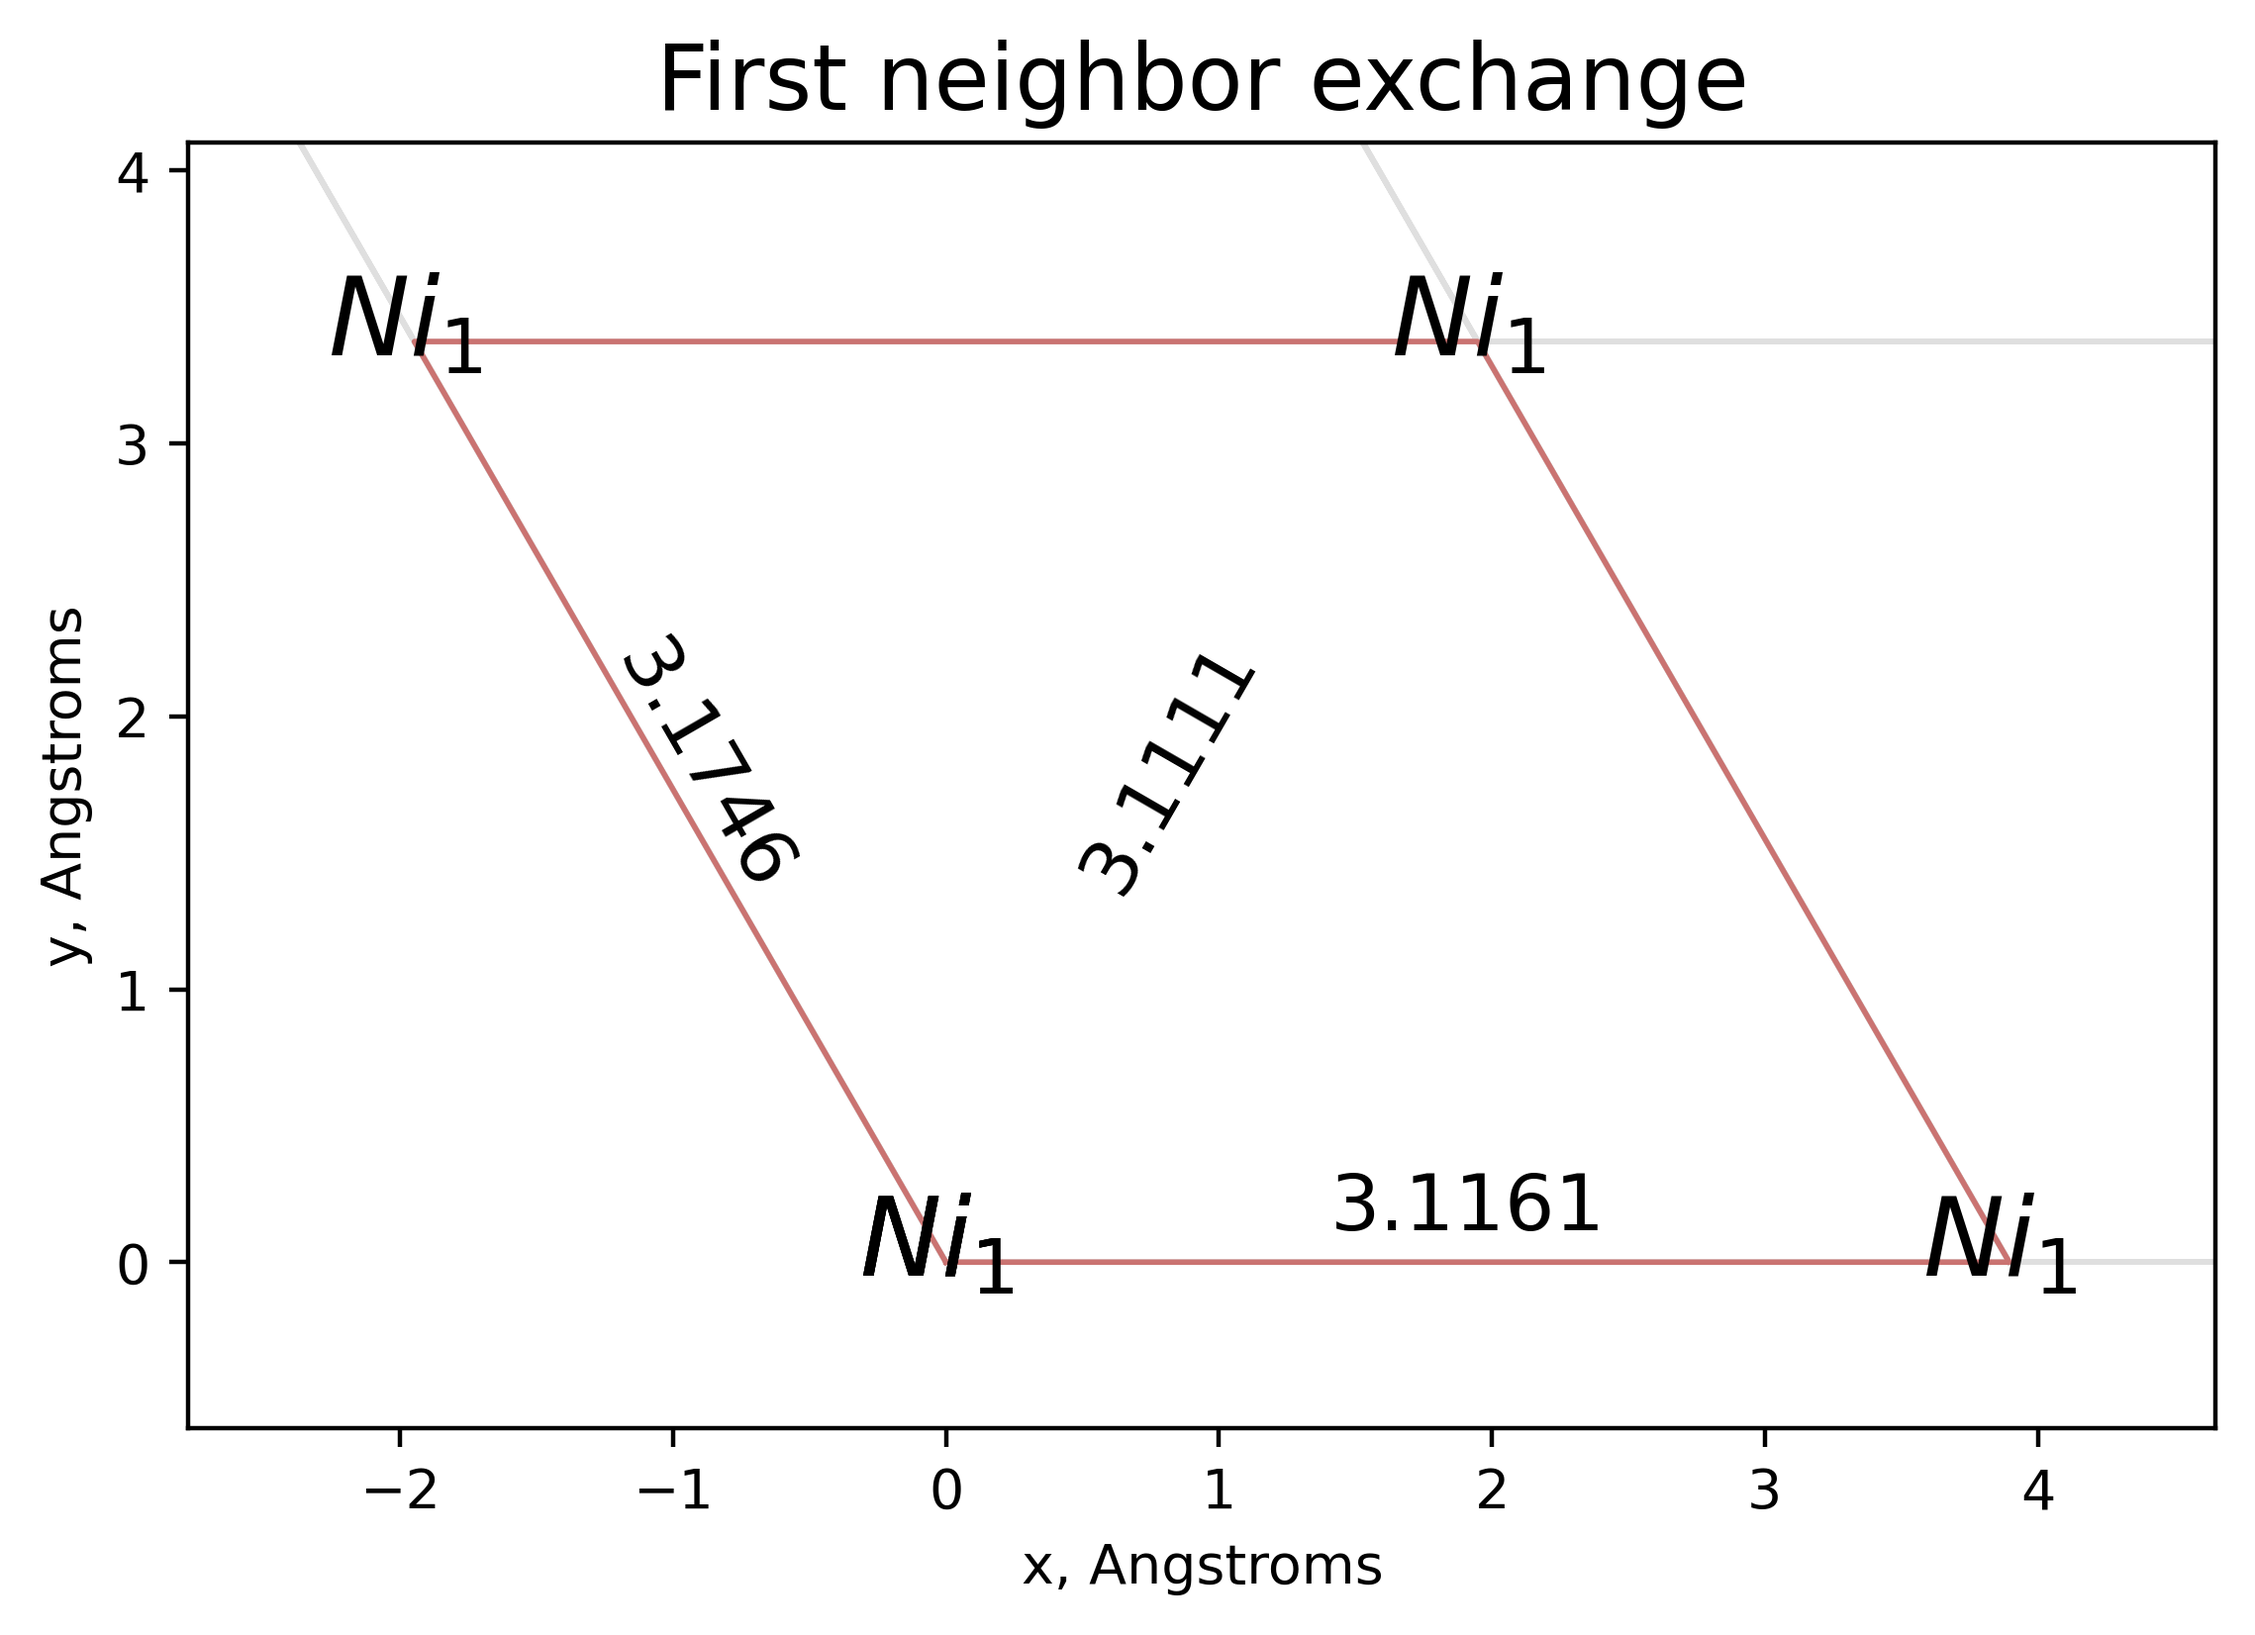
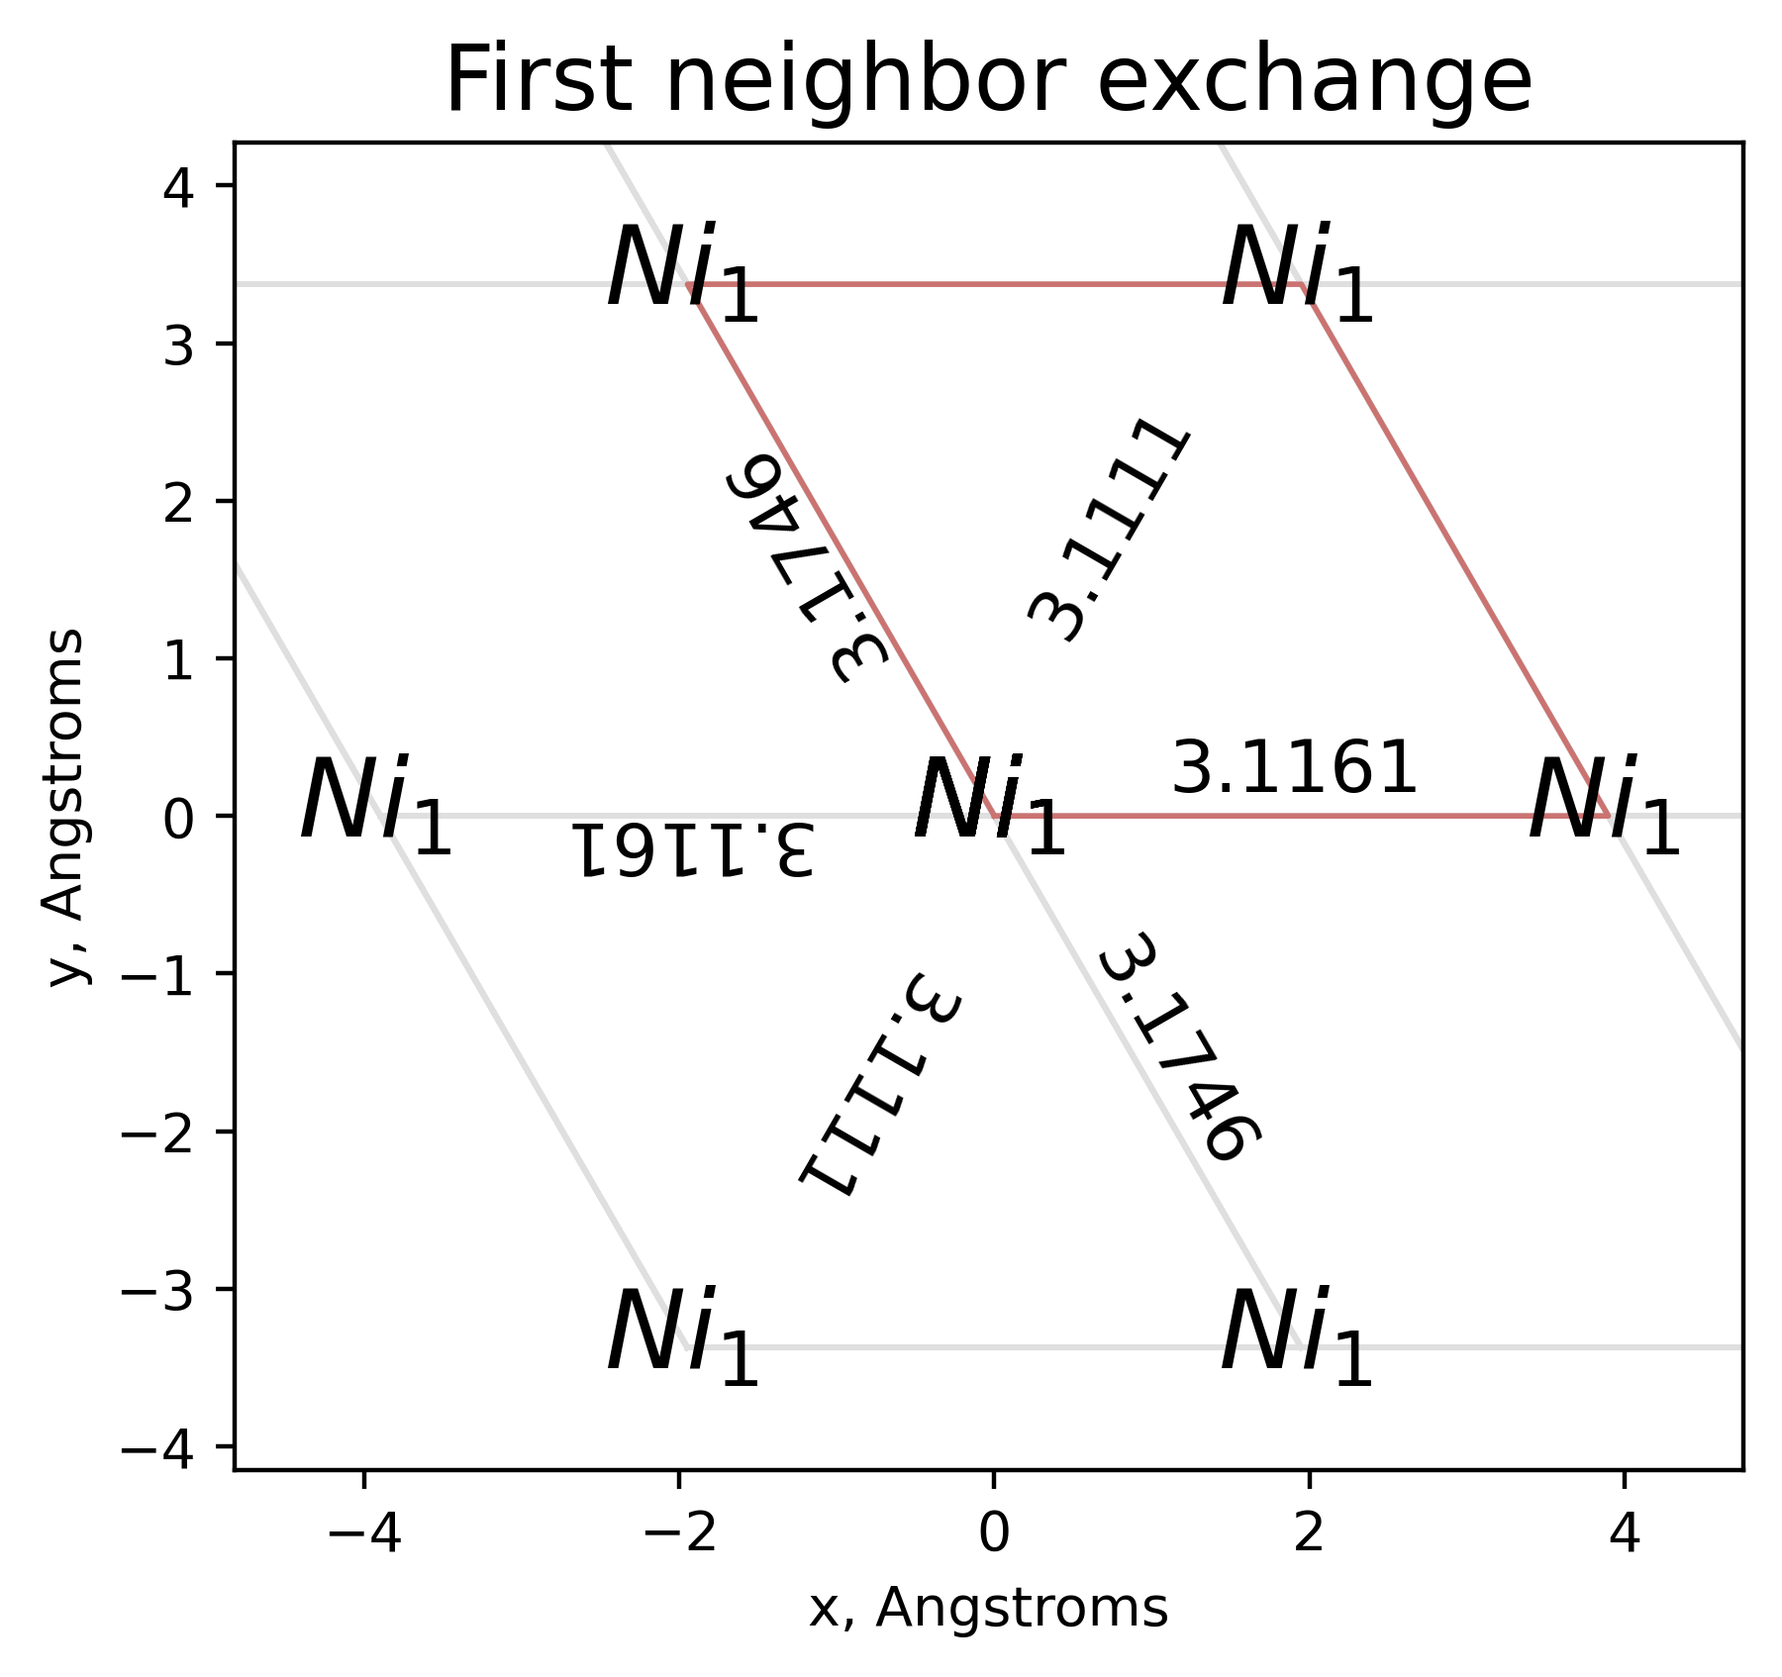
Update tb2j-plotter and docs

diff --git a/scripts/tb2j-plotter.py b/scripts/tb2j-plotter.py
@@ -22,15 +22,10 @@ def plot_2d(filename, out_dir='.',
             max_distance=None,
             template=None,
             R_vector=None,
-            double_bonds=False,
             scale_atoms=1,
             scale_data=1,
-            title=None):
-
-    mode_name = "2d"
-    messages = {'iso': "isotropic exchange",
-                "distance": "distances",
-                "dmi": "dmi"}
+            title=None,
+            force_symmetry=False):
 
     model = read_exchange_model(filename)
     if template is not None:
@@ -39,12 +34,11 @@ def plot_2d(filename, out_dir='.',
                  max_distance=max_distance,
                  R_vector=R_vector,
                  template=template)
+    if force_symmetry:
+        model.force_symmetry(template=template)
 
     dummy = True
     ha = 'center'
-    if not double_bonds:
-        model.remove_double_bonds()
-        dummy = False
     x_min, y_min, z_min, x_max, y_max, z_max = model.space_dimensions
     X = max(abs(x_min), abs(x_max))
     Y = max(abs(y_min), abs(y_max))
@@ -62,43 +56,42 @@ def plot_2d(filename, out_dir='.',
     ax.set_xlabel('x, Angstroms')
     ax.set_ylabel('y, Angstroms')
 
-    for atom1 in model.bonds:
-        for atom2 in model.bonds[atom1]:
-            for R in model.bonds[atom1][atom2]:
-                bond = model.bonds[atom1][atom2][R]
-                x1, y1, z1 = model.get_atom_coordinates(atom1)
-                x2, y2, z2 = model.get_atom_coordinates(atom2, R)
-                xm = (x1 + x2) / 2
-                ym = (y1 + y2) / 2
-                zm = (z1 + z2) / 2
+    for atom1, atom2, R in model:
+        bond = model[(atom1, atom2, R)]
+        dis = model.get_distance(atom1, atom2, R)
+        x1, y1, z1 = model.get_atom_coordinates(atom1)
+        x2, y2, z2 = model.get_atom_coordinates(atom2, R)
+        xm = (x1 + x2) / 2
+        ym = (y1 + y2) / 2
+        zm = (z1 + z2) / 2
 
-                ax.scatter(x1, y1, s=100 * fig.dpi/72., c='white')
-                ax.scatter(x2, y2, s=100 * fig.dpi/72., c='white')
+        ax.scatter(x1, y1, s=100 * fig.dpi/72., c='white')
+        ax.scatter(x2, y2, s=100 * fig.dpi/72., c='white')
 
-                ax.text(x1, y1, atom_mark_to_latex(atom1),
-                        va='center', ha='center',
-                        fontsize=1.5 * fontsize * scale_atoms)
-                ax.text(x2, y2, atom_mark_to_latex(atom2),
-                        va='center', ha='center',
-                        fontsize=1.5 * fontsize * scale_atoms)
-                if wtp == 'iso':
-                    ax.text(xm, ym, str(round(bond.iso, 4)),
-                            va='bottom', ha=ha,
-                            rotation_mode='anchor',
-                            rotation=rot_angle(x2 - x1, y2 - y1, dummy=dummy),
-                            fontsize=fontsize * scale_data)
-                elif wtp == 'distance':
-                    ax.text(xm, ym, str(round(bond.dis, 4)),
-                            va='bottom', ha=ha,
-                            rotation_mode='anchor',
-                            rotation=rot_angle(x2 - x1, y2 - y1, dummy=dummy),
-                            fontsize=fontsize * scale_data)
-                elif wtp == 'dmi':
-                    ax.text(xm, ym, str(round(sqrt(np.sum(bond.dmi**2)), 4)),
-                            va='bottom', ha=ha,
-                            rotation_mode='anchor',
-                            rotation=rot_angle(x2 - x1, y2 - y1, dummy=dummy),
-                            fontsize=fontsize * scale_data)
+        ax.text(x1, y1, atom_mark_to_latex(atom1),
+                va='center', ha='center',
+                fontsize=1.5 * fontsize * scale_atoms)
+        ax.text(x2, y2, atom_mark_to_latex(atom2),
+                va='center', ha='center',
+                fontsize=1.5 * fontsize * scale_atoms)
+        if wtp == 'iso':
+            ax.text(xm, ym, str(round(bond.iso, 4)),
+                    va='bottom', ha=ha,
+                    rotation_mode='anchor',
+                    rotation=rot_angle(x2 - x1, y2 - y1, dummy=dummy),
+                    fontsize=fontsize * scale_data)
+        elif wtp == 'distance':
+            ax.text(xm, ym, str(round(dis, 4)),
+                    va='bottom', ha=ha,
+                    rotation_mode='anchor',
+                    rotation=rot_angle(x2 - x1, y2 - y1, dummy=dummy),
+                    fontsize=fontsize * scale_data)
+        elif wtp == 'dmi':
+            ax.text(xm, ym, str(round(sqrt(np.sum(bond.dmi**2)), 4)),
+                    va='bottom', ha=ha,
+                    rotation_mode='anchor',
+                    rotation=rot_angle(x2 - x1, y2 - y1, dummy=dummy),
+                    fontsize=fontsize * scale_data)
 
     xlims = (ax.get_xlim()[0] - 0.5, ax.get_xlim()[1] + 0.5)
     ylims = (ax.get_ylim()[0] - 0.5, ax.get_ylim()[1] + 0.5)
@@ -146,7 +139,7 @@ def plot_2d(filename, out_dir='.',
 
     png_path = join(out_dir, f'{out_name}.{wtp}.png')
     plt.savefig(png_path, dpi=400, bbox_inches="tight")
-    print(f'{OK}{mode_name} plot with {wtp} is in {abspath(png_path)}{RESET}')
+    print(f'{OK}2D plot with {wtp} is in {abspath(png_path)}{RESET}')
 
 
 if __name__ == '__main__':
@@ -225,18 +218,12 @@ if __name__ == '__main__':
                         (=) Exact distance.
                         """
                         )
-    parser.add_argument("-tf", "--template",
+    parser.add_argument("-tf", "--template-file",
                         type=str,
                         default=None,
                         help="""
                         Relative or absolute path to the template file,
                         including the name and extention of the file.
-                        """)
-    parser.add_argument("-db", "--double-bonds",
-                        default=False,
-                        action="store_true",
-                        help="""
-                        Whenever to keep both bonds.
                         """)
     parser.add_argument("-sa", "--scale-atoms",
                         default=1,
@@ -255,6 +242,13 @@ if __name__ == '__main__':
                         type=str,
                         help="""
                         Title for the plots.
+                        """)
+    parser.add_argument("-fs", "--force-symmetry",
+                        default=False,
+                        action="store_true",
+                        help="""
+                        Force the Exchange model to have the symmetry 
+                        of the template.
                         """)
 
     args = parser.parse_args()
@@ -275,6 +269,9 @@ if __name__ == '__main__':
     if args.what_to_plot != 'all':
         plot_data_type = [args.what_to_plot]
 
+    if args.force_symmetry and args.template_file is None:
+        raise ValueError("--force-symmetry option requires a template file.")
+
     for data_type in plot_data_type:
         plot_2d(filename=args.filename,
                 out_dir=args.output_dir,
@@ -283,9 +280,9 @@ if __name__ == '__main__':
                 draw_cells=args.draw_cells,
                 min_distance=args.min_distance,
                 max_distance=args.max_distance,
-                template=args.template,
+                template=args.template_file,
                 R_vector=args.R_vector,
-                double_bonds=args.double_bonds,
                 scale_atoms=args.scale_atoms,
                 scale_data=args.scale_data,
-                title=args.title)
+                title=args.title,
+                force_symmetry=args.force_symmetry)

diff --git a/docs/source/user-guide/tb2j-plotter.rst b/docs/source/user-guide/tb2j-plotter.rst
@@ -66,8 +66,11 @@ default seedname (*exchange*, use
 
 .. note::
 
-    In the following only exchange.iso.png file will be produced with the help 
+    In the following text only exchange.iso.png file will be produced with the help 
     of  :ref:`--what-to-plot <tb2j-plotter_what-to-plot>` argument.
+
+Basic adjustments
+-----------------
 
 Since the exchange.out file contains a lot of exchange bonds the pictures with 
 all of them are not really usefull. Lets plot the isotropic exchange picture 
@@ -81,14 +84,17 @@ with some adjustments:
 
 .. code-block:: bash
 
-    tb2j-plotter.py -f exchange.out -wtp iso -maxd 5 -dc -sa 1.2 -sd 1.3 -t "First neighbor exchange" -on exchange_filtered
+    tb2j-plotter.py -f exchange.out -wtp iso -maxd 5 -dc -sa 1.2 -sd 1.2 -t "First neighbor exchange" -on exchange_filtered
 
 .. figure:: /../examples/tb2j-plotter/exchange_filtered.iso.png
     :align: center
 
     exchange_filtered.iso.png
 
-For filtering the exchange model there is a few options available:
+Filtering
+---------
+
+For filtering the exchange model there are a few options available:
 
     * :ref:`--max_distance <tb2j-plotter_max-distance>`
     * :ref:`--min_distance <tb2j-plotter_min-distance>`
@@ -96,38 +102,31 @@ For filtering the exchange model there is a few options available:
     * :ref:`--R-vector <tb2j-plotter_R-vector>`
     * :ref:`--template <tb2j-plotter_template-file>`
 
-By default ``tb2j-plotter.py`` does not display symmetrically equivalent
-(with respect to the translation symmetry) bonds. It could raise the problems 
-with analysis of DMI or anisotropic echange, in order to display all bonds 
-one can use :ref:`-db <tb2j-plotter_double-bonds>` argument:
-
-.. code-block:: bash
-
-    tb2j-plotter.py -f exchange.out -wtp iso -maxd 5 -dc -sa 1.2  -t "First neighbor exchange" -db -on exchange_double_bonds
-
-.. figure:: /../examples/tb2j-plotter/exchange_double_bonds.iso.png
-    :align: center
-
-    exchange_double_bonds.iso.png
-
-At the end there is an example of how to filter exchange model in order to show 
-frist exchange neighbor, but using 
+Here is an example of how to filter exchange model in order to show 
+frist exchange neighbor, using different options:
+:ref:`--max_distance <tb2j-plotter_max-distance>`
 :ref:`--R-vector <tb2j-plotter_R-vector>` or
 :ref:`--template <tb2j-plotter_template-file>` arguments:
 
 .. code-block:: bash
 
-    tb2j-plotter.py -f exchange.out -wtp iso -tf template.txt -dc -sa 1.2  -t "First neighbor exchange" -db -on exchange_template
-    tb2j-plotter.py -f exchange.out -wtp iso -R 1 0 0 1 1 0  0 1 0 -1 1 0 -1 0 0 -1 -1 0 0 -1 0 1 -1 0 -dc -sa 1.2  -t "First neighbor exchange" -db -on exchange_R
+    tb2j-plotter.py -f exchange.out -wtp iso -maxd 5 -dc -sa 1.2 -sd 1.2 -t "First neighbor exchange" -on exchange_filtered
+    tb2j-plotter.py -f exchange.out -wtp iso -tf template.txt -dc -sa 1.2 -sd 1.2 -t "First neighbor exchange" -on exchange_template
+    tb2j-plotter.py -f exchange.out -wtp iso -R 1 0 0 1 1 0  0 1 0 -1 1 0 -1 0 0 -1 -1 0 0 -1 0 1 -1 0 -dc -sa 1.2 -sd 1.2 -t "First neighbor exchange" -on exchange_R
 
 where template file is the following:
 
 .. literalinclude:: /../examples/tb2j-plotter/template.txt
     :language: text
 
-The images should be the same:
+The images are the same:
 
 .. dropdown:: Output images
+
+    .. figure:: /../examples/tb2j-plotter/exchange_filtered.iso.png
+        :align: center
+
+        exchange_filtered.iso.png
 
     .. figure:: /../examples/tb2j-plotter/exchange_R.iso.png
         :align: center
@@ -138,6 +137,45 @@ The images should be the same:
         :align: center
 
         exchange_template.iso.png
+
+Modifying the model
+-------------------
+
+By default ``tb2j-plotter.py`` display the bonds as it is in the model.
+One could use :ref:`-fs <tb2j-plotter_force-symmetry>` argument in order 
+to reproduce particular exchange model:
+
+.. code-block:: bash
+
+    tb2j-plotter.py -f exchange.out -tf template.txt -fs -dc -sa 1.2 -sd 1.2 -t "Forced symmetry exchange" -on exchange_forced_symmetry
+
+.. figure:: /../examples/tb2j-plotter/exchange_forced_symmetry.iso.png
+    :align: center
+
+    exchange_forced_symmetry.iso.png
+
+.. dropdown:: DMI and distances
+
+    .. figure:: /../examples/tb2j-plotter/exchange_forced_symmetry.dmi.png
+        :align: center
+
+        exchange_forced_symmetry.dmi.png
+
+    .. figure:: /../examples/tb2j-plotter/exchange_forced_symmetry.distance.png
+        :align: center
+
+        exchange_forced_symmetry.distance.png
+
+Only one exchage parameter present in the template file, therefore the model 
+is filtered with respect to the template and then the value of the exchange 
+for each bond is set to the medium value of all bonds from the same exchage group.
+DMI interaction is modified as well in a way that direction of the DMI vector is 
+kept, but the magnitude of the DMI vector is scaled to the medium value.
+
+.. note::
+
+    When :ref:`--force-symmetry <tb2j-plotter_force-symmetry>` argument is provided
+    :ref:`--template-file <tb2j-plotter_template-file>` is required.
 
 
 
@@ -301,30 +339,6 @@ including the name and extention of the file.
 See also: :ref:`template <rad-make-template>`
 
 
-.. _tb2j-plotter_double-bonds:
-
--db, --double-bonds
--------------------
-Whenever to keep both bonds.
-
-In TB2J file there are two bonds for the pair of atom 1 and atom 2: 
-from 1 to 2 and from 2 to 1 (when R = (0, 0, 0)). Isotropic and 
-anisotropic exchange and distance usially are exactly the same. 
-DMI vector have the same module and opposite directions. 
-If this parameter is specifyied then both bonds are displayed. 
-Otherwise bonds are combined in one by taking the average beetween
-exchange parameters. 
-
-    *default* : False
-
-    *action* : store_true
-
-.. caution::
-    If this parameter is not specified then it is highly probable that
-    DMI will be equal to zero even if it is not zero in TB2J file. 
-    Moreover, it is necessary to check anisotropy matrices as well.
-
-
 .. _tb2j-plotter_scale-atoms:
 
 -sa, --scale-atoms
@@ -364,4 +378,15 @@ Title will be displayed in the picture.
     *default* : None
 
     *type* : str
+
+
+.. _tb2j-plotter_force-symmetry:
+
+-fs, --force-symmetry
+---------------------
+Force the exchange model to have the symmetry of the template.
+
+    *default* : False
+    *action* : "store_true"
+    
  
